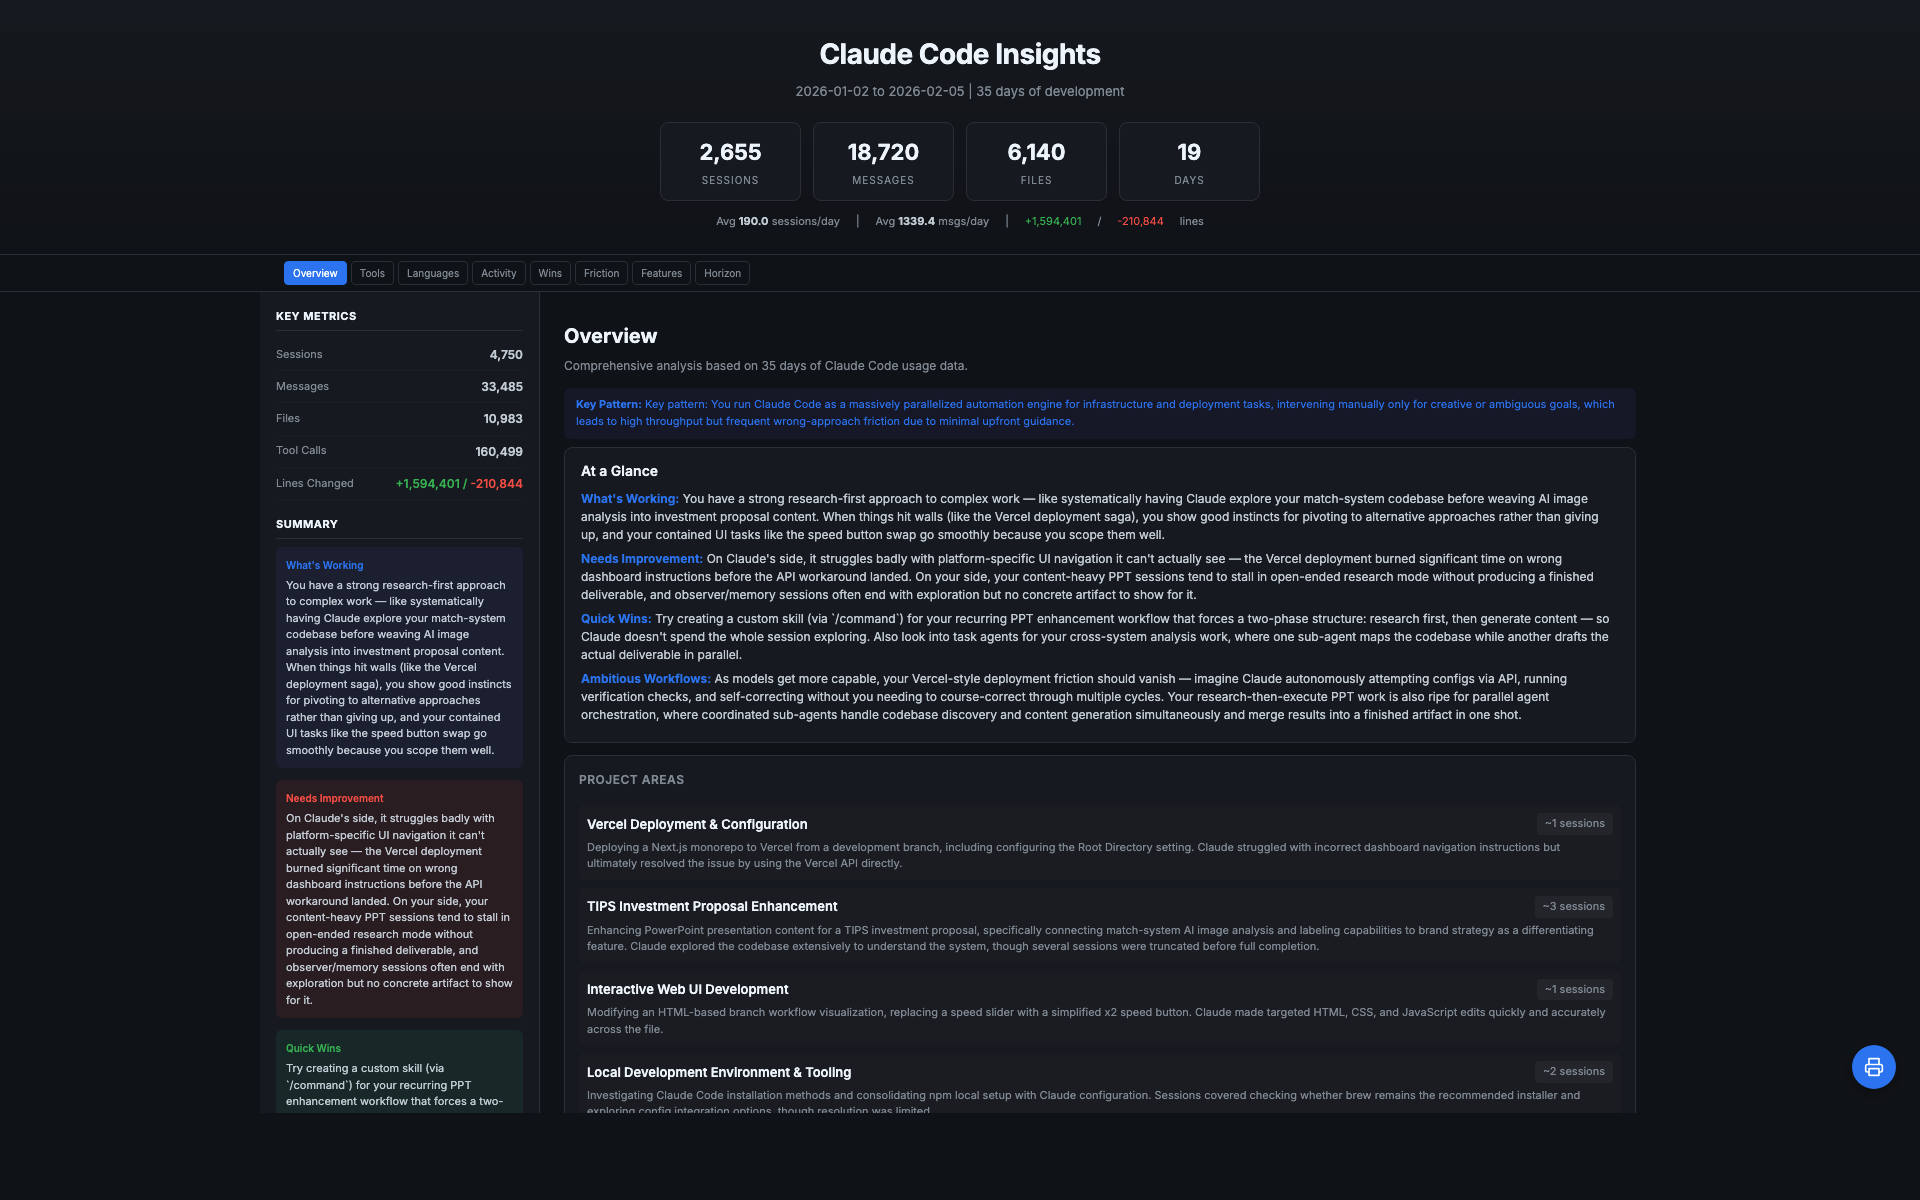
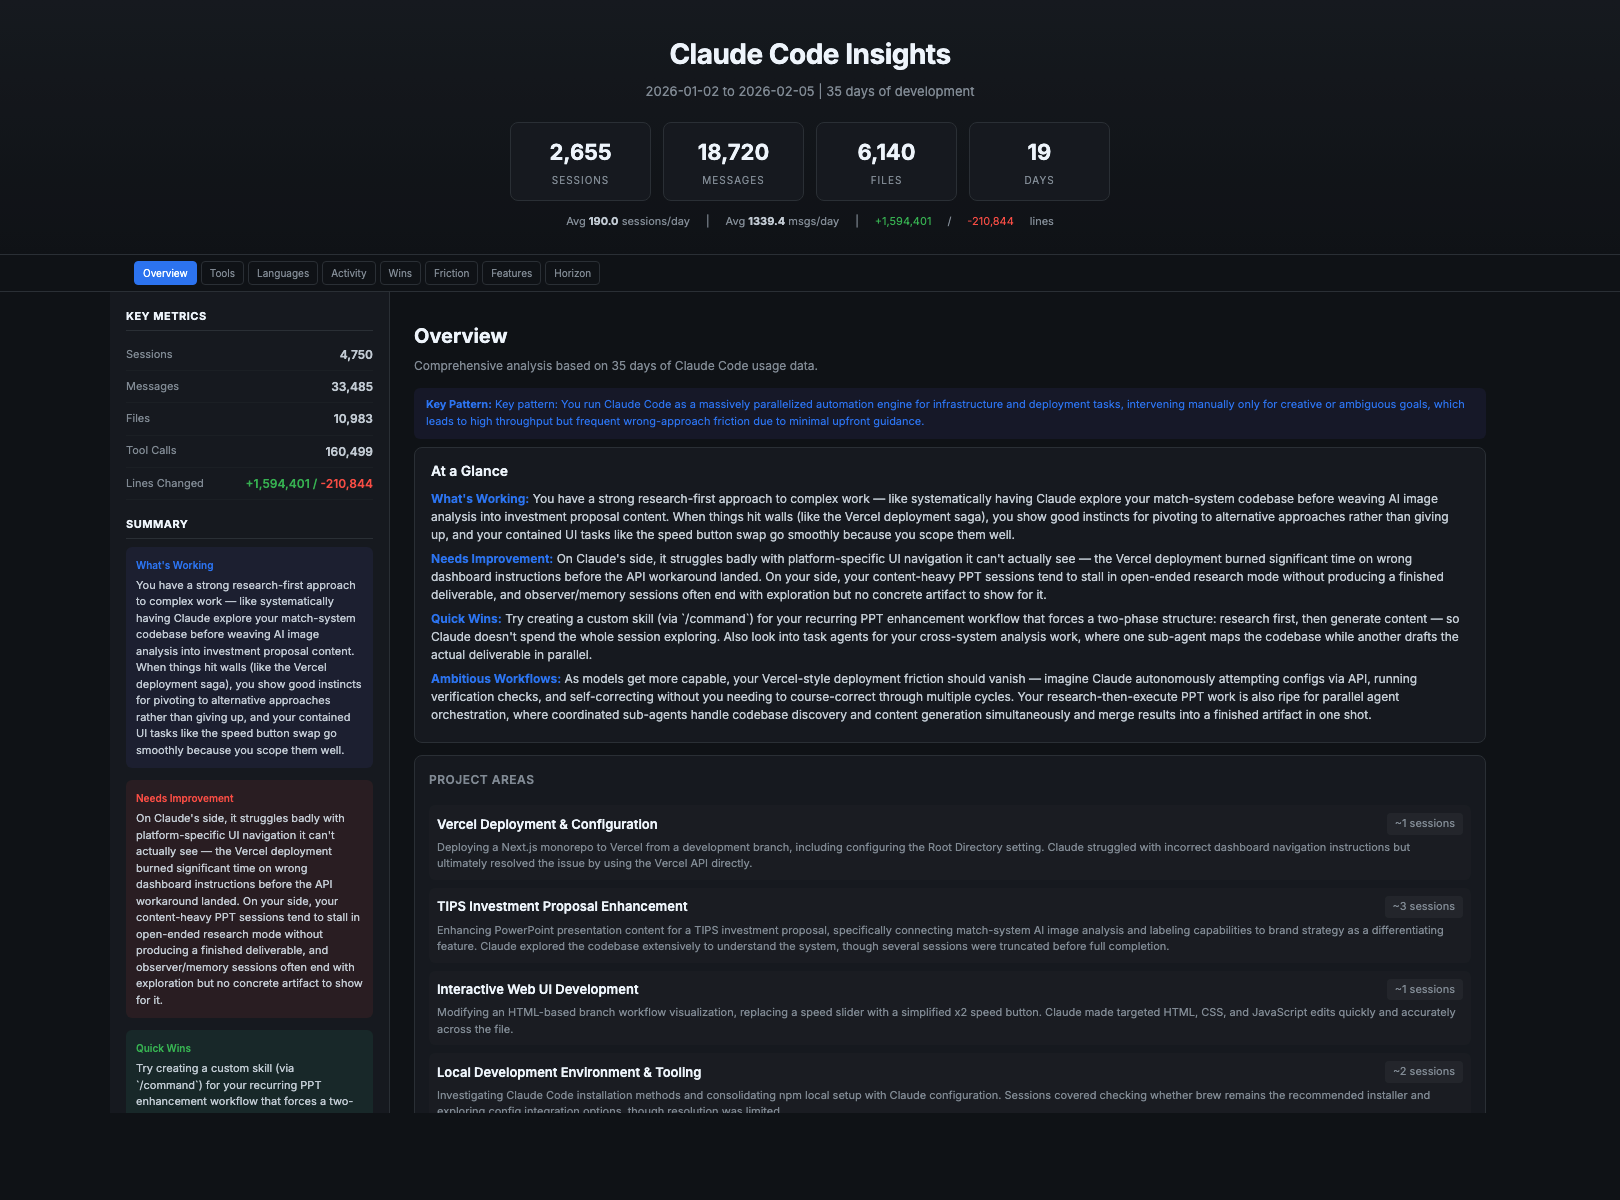
대시보드 좌우 여백 크롭 + GIF 사이즈 확대 (480→800px)

diff --git a/README-ko.md b/README-ko.md
@@ -6,11 +6,11 @@
 
 ## 대시보드
 
-![대시보드 미리보기](https://i.imgur.com/Kz2bBEu.png)
+![대시보드 미리보기](https://i.imgur.com/Dg0yOxa.png)
 
 ## 영상
 
-![데모 영상](https://i.imgur.com/C9n5Ozm.gif)
+![데모 영상](https://i.imgur.com/Jxj49Gd.gif)
 
 ## 주요 기능
 

diff --git a/README.md b/README.md
@@ -6,11 +6,11 @@
 
 ## Dashboard
 
-![Dashboard Preview](https://i.imgur.com/Oy2Pv5A.png)
+![Dashboard Preview](https://i.imgur.com/P71qZ7S.png)
 
 ## Video
 
-![Demo Video](https://i.imgur.com/C9n5Ozm.gif)
+![Demo Video](https://i.imgur.com/Jxj49Gd.gif)
 
 ## Features
 
